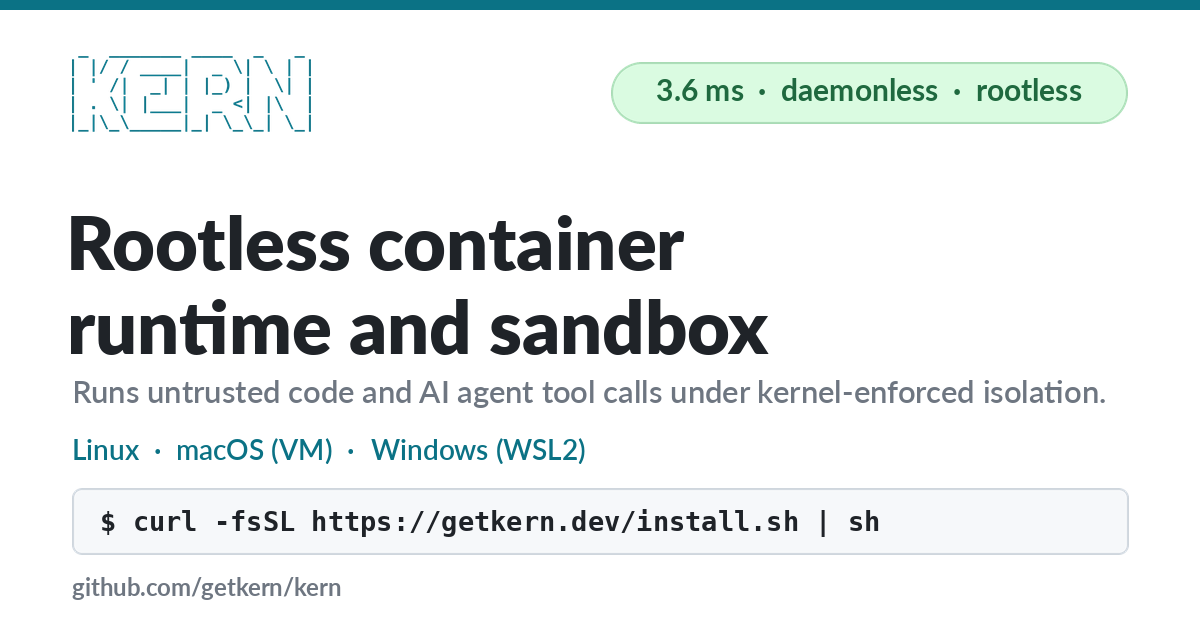
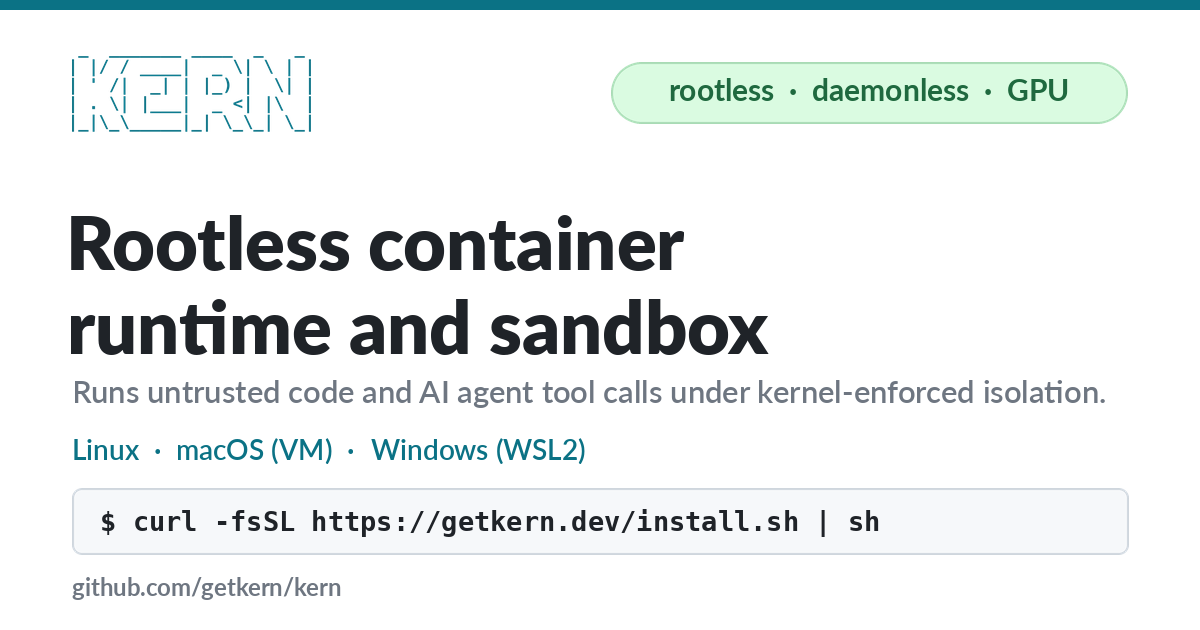
docs(card): og-image-v8 says rootless, daemonless, GPU on the pill
The pill carried a latency figure, which goes stale with every measurement; it now
names the release's news. The og-card gate still requires a figure, when there is
one, to match BENCHMARKS.md.

Changed region(s): [[0.555, 0.1206, 0.8942, 0.181]]

diff --git a/assets/make-og-card.py b/assets/make-og-card.py
@@ -55,7 +55,9 @@ SUBLINE = "Runs untrusted code and AI agent tool calls under kernel-enforced iso
 # the sub-line had one and the pill did not. It does now, and
 # scripts/og-card-matches-readme.py checks it against the BENCHMARKS.md row that stale-numbers.py
 # already treats as canonical.
-PILL = "3.6 ms  \u00b7  daemonless  \u00b7  rootless"
+# 2026-11-17: no figure on the pill any more (a number on a card goes stale with every new
+# measurement); the release's news is the GPU support.
+PILL = "rootless  \u00b7  daemonless  \u00b7  GPU"
 PILL_BG = (218, 251, 225)      # sampled inside the pill
 PILL_INK = (31, 105, 63)       # sampled from its text
 PILL_BOX = (611, 62, 1127, 123)   # MEASURED on the original: the pill's true bounding box

diff --git a/scripts/og-card-matches-readme.py b/scripts/og-card-matches-readme.py
@@ -104,8 +104,10 @@ def main() -> int:
     said = re.search(r"([\d.]+)\s*ms", pill)
     bench = (ROOT / "BENCHMARKS.md").read_text(encoding="utf-8")
     canonical = re.search(r"\|\s*\*\*kern\*\*\s*`box --image`\s*\|\s*\*\*~?([\d.]+)\s*ms\*\*", bench)
+    # A pill with NO figure is fine (2026-11-17: the pill reads "rootless · daemonless · GPU");
+    # a pill WITH one must still match BENCHMARKS.md, which is what this rule is for.
     if not said:
-        problems.append("the card's pill no longer states a figure this check can read")
+        pass
     elif not canonical:
         problems.append("BENCHMARKS.md no longer states the image cold start in its table")
     elif said.group(1) != canonical.group(1):
